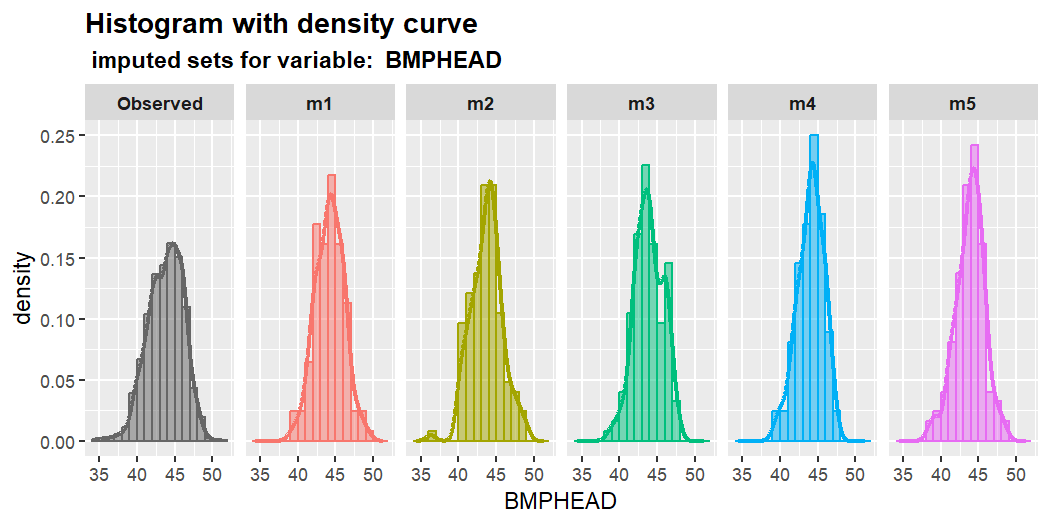
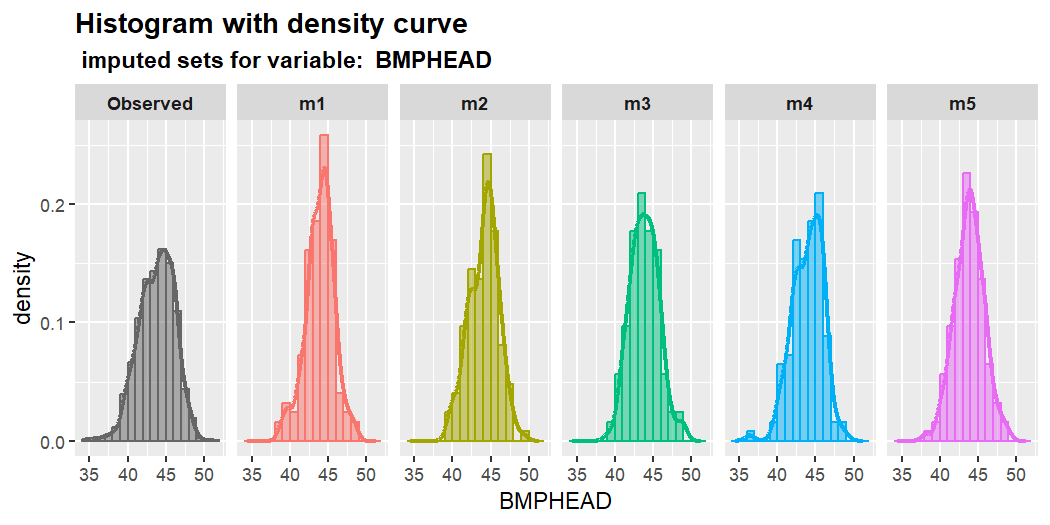
Remove XGBoost dependency temporarily
Remove XGBoost dependency as XGBoost >=2.0.0 is not on CRAN yet. This would cause Github actions to fail. Will add it back once it is on CRAN

diff --git a/README.md b/README.md
@@ -22,7 +22,7 @@ computational efficiency. For further information, please refer to our
 paper [Multiple Imputation Through
 XGBoost](https://www.tandfonline.com/doi/full/10.1080/10618600.2023.2252501).
 
-## Reference
+## References
 
 - Yongshi Deng & Thomas Lumley. (2023), [Multiple Imputation Through
   XGBoost](https://www.tandfonline.com/doi/full/10.1080/10618600.2023.2252501),
@@ -37,6 +37,29 @@ XGBoost](https://www.tandfonline.com/doi/full/10.1080/10618600.2023.2252501).
 ## New updates
 
 **Oct 2023**
+
+- Dependency Change: Starting from mixgb version 1.3.1, the package
+  requires XGBoost version 2.0.0 or higher. As of now, this version is
+  not available on CRAN. To get the required version with GPU support,
+  please download it from [XGBoost GitHub
+  Releases](https://github.com/dmlc/xgboost/releases). Then in R, one
+  can install XGBoost 2.0.0 and the newest version of **mixgb** as
+  follows:
+
+``` r
+# Change the file path where you saved the downloaded
+# XGBoost package
+install.packages("path_to_downloaded_file/xgboost_r_gpu_win64_2.0.0.tar.gz",
+    repos = NULL)
+```
+
+``` r
+devtools::install_github("agnesdeng/mixgb")
+library(mixgb)
+```
+
+- If you prefer to use the CRAN version of XGBoost, consider using an
+  earlier version of **mixgb** (versions \<1.3.1).
 
 - Now compatible with XGBoost 2.0.0! To align with XGBoost 2.0.0,
   **mixgb** introduces new parameter `device` and removed
@@ -257,9 +280,9 @@ params <- list(max_depth = 3, subsample = 0.7, nthread = 2)
 cv.results <- mixgb_cv(data = nhanes3_newborn, nrounds = 100,
     xgb.params = params, verbose = FALSE)
 cv.results$response
-#> [1] "BMPHEAD"
+#> [1] "BMPSB1"
 cv.results$best.nrounds
-#> [1] 17
+#> [1] 15
 ```
 
 By default, `mixgb_cv()` will randomly choose an incomplete variable as
@@ -343,25 +366,25 @@ specified variable.
 show_var(imputation.list = imputed.data, var.name = "BMPHEAD",
     original.data = withNA.df)
 #>        m1   m2   m3   m4   m5
-#>   1: 45.4 42.3 43.6 44.5 43.5
-#>   2: 46.2 41.0 42.5 44.3 43.9
-#>   3: 42.7 43.5 43.6 43.6 43.5
-#>   4: 46.1 44.0 47.7 46.8 45.1
-#>   5: 46.2 44.9 44.8 44.2 44.9
+#>   1: 44.0 44.8 45.0 44.8 46.2
+#>   2: 44.0 44.0 43.8 44.3 44.0
+#>   3: 43.9 42.8 43.8 41.8 44.7
+#>   4: 45.7 47.5 45.3 45.9 46.0
+#>   5: 48.8 46.1 45.3 47.4 45.2
 #>  ---                         
-#> 120: 45.2 46.4 46.2 45.6 45.2
-#> 121: 46.3 47.3 46.2 46.3 44.9
-#> 122: 41.6 40.2 42.0 41.7 41.0
-#> 123: 44.0 42.4 43.7 44.7 42.4
-#> 124: 44.4 43.4 41.8 42.9 44.5
+#> 120: 44.7 46.9 45.3 45.0 46.2
+#> 121: 44.8 46.2 46.4 45.0 45.7
+#> 122: 40.8 39.9 41.6 39.9 41.9
+#> 123: 44.4 42.9 43.8 44.1 42.3
+#> 124: 46.3 44.6 46.1 45.1 45.1
 show_var(imputation.list = imputed.data, var.name = "HFF1", original.data = withNA.df)
 #>    m1 m2 m3 m4 m5
 #> 1:  2  2  2  2  2
-#> 2:  2  2  2  2  1
-#> 3:  2  1  2  2  2
-#> 4:  2  1  2  2  2
-#> 5:  2  2  2  1  2
-#> 6:  2  2  2  2  2
+#> 2:  1  1  1  2  1
+#> 3:  1  1  1  1  1
+#> 4:  2  2  2  2  2
+#> 5:  1  1  1  1  1
+#> 6:  1  1  1  1  1
 #> 7:  2  2  2  2  2
 ```
 
@@ -385,28 +408,28 @@ plot_hist(imputation.list = imputed.data, var.name = "BMPHEAD",
     original.data = withNA.df)
 ```
 
-<img src="man/figures/README-unnamed-chunk-14-1.png" width="95%" />
+<img src="man/figures/README-unnamed-chunk-16-1.png" width="95%" />
 
 ``` r
 plot_2num(imputation.list = imputed.data, var.x = "BMPHEAD",
     var.y = "BMPRECUM", original.data = withNA.df)
 ```
 
-<img src="man/figures/README-unnamed-chunk-14-2.png" width="95%" />
+<img src="man/figures/README-unnamed-chunk-16-2.png" width="95%" />
 
 ``` r
 plot_2num(imputation.list = imputed.data, var.x = "HSAGEIR",
     var.y = "BMPHEAD", original.data = withNA.df)
 ```
 
-<img src="man/figures/README-unnamed-chunk-14-3.png" width="95%" />
+<img src="man/figures/README-unnamed-chunk-16-3.png" width="95%" />
 
 ``` r
 plot_1num1fac(imputation.list = imputed.data, var.num = "BMPHEAD",
     var.fac = "HSSEX", original.data = withNA.df)
 ```
 
-<img src="man/figures/README-unnamed-chunk-14-4.png" width="95%" />
+<img src="man/figures/README-unnamed-chunk-16-4.png" width="95%" />
 
 ## 4. Impute new unseen data using a saved imputer object
 
@@ -560,10 +583,12 @@ GPUs. Users must first install the R package `xgboost` with GPU support.
 # Newest Version (XGBoost \>= 2.0.0, mixgb \>= 1.3.1)
 
 Please download the Newest version of XGBoost with GPU support via
-<https://github.com/dmlc/xgboost/releases>
+[XGBoost GitHub Releases](https://github.com/dmlc/xgboost/releases).
 
 ``` r
-install.packages("C:/Users/agnes/Desktop/phd-thesis/packages backup/xgboost_r_gpu_win64_2.0.0.tar.gz",
+# Change the file path where you saved the downloaded
+# XGBoost package
+install.packages("path_to_downloaded_file/xgboost_r_gpu_win64_2.0.0.tar.gz",
     repos = NULL)
 ```
 
